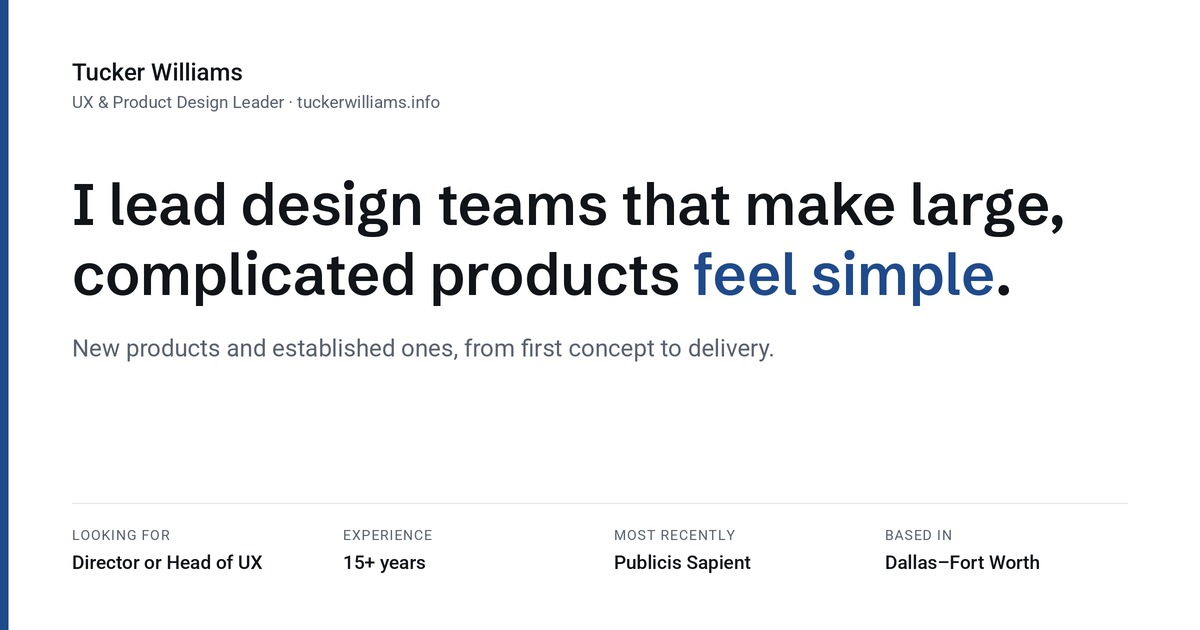
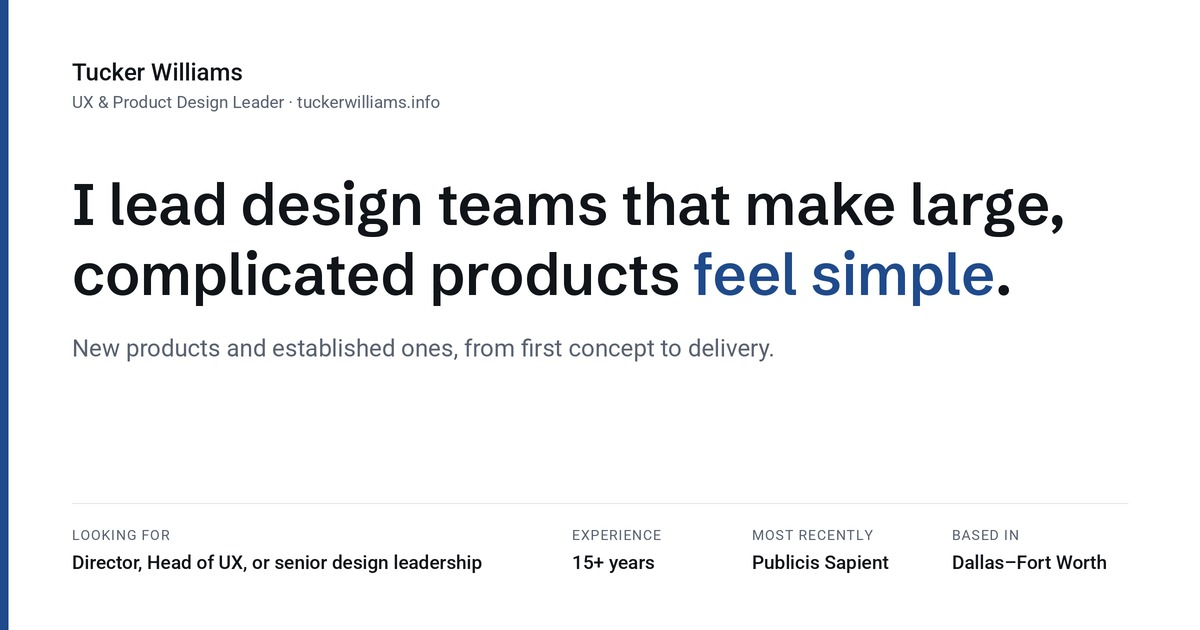
Update social image with the broader role list

Changed region(s): [[0.4625, 0.8444, 0.925, 0.9048], [0.1233, 0.8444, 0.4008, 0.9048]]

diff --git a/index.html b/index.html
@@ -11,7 +11,7 @@
 <meta property="og:title" content="Tucker Williams · UX &amp; Product Design Leader">
 <meta property="og:description" content="I lead design teams that make large, complicated products feel simple, new and established, most recently for 62 Pennsylvania agency sites and Grupo Coppel’s design practice.">
 <meta property="og:url" content="https://tuckerwilliams.info/">
-<meta property="og:image" content="https://tuckerwilliams.info/assets/img/og.jpg?v=5">
+<meta property="og:image" content="https://tuckerwilliams.info/assets/img/og.jpg?v=6">
 <meta property="og:image:width" content="1200">
 <meta property="og:image:height" content="630">
 <meta property="og:image:alt" content="Tucker Williams, UX and Product Design Leader: I lead design teams that make large, complicated products feel simple.">

diff --git a/work/visualization-tool/index.html b/work/visualization-tool/index.html
@@ -11,7 +11,7 @@
 <meta property="og:title" content="Visualization tool case study · Tucker Williams">
 <meta property="og:description" content="A tool for contractors to show homeowners real roofing and siding on their house, then turn the choice into an order. A case study by Tucker Williams.">
 <meta property="og:url" content="https://tuckerwilliams.info/work/visualization-tool/">
-<meta property="og:image" content="https://tuckerwilliams.info/assets/img/og.jpg?v=5">
+<meta property="og:image" content="https://tuckerwilliams.info/assets/img/og.jpg?v=6">
 <meta property="og:image:width" content="1200">
 <meta property="og:image:height" content="630">
 <meta property="og:image:alt" content="Tucker Williams, UX and Product Design Leader: I lead design teams that make large, complicated products feel simple.">

diff --git a/work/handango/index.html b/work/handango/index.html
@@ -11,7 +11,7 @@
 <meta property="og:title" content="Handango case study · Tucker Williams">
 <meta property="og:description" content="First employee at a mobile software marketplace, working across product, brand, packaging and strategy. A case study by Tucker Williams, UX and Product Design Leader.">
 <meta property="og:url" content="https://tuckerwilliams.info/work/handango/">
-<meta property="og:image" content="https://tuckerwilliams.info/assets/img/og.jpg?v=5">
+<meta property="og:image" content="https://tuckerwilliams.info/assets/img/og.jpg?v=6">
 <meta property="og:image:width" content="1200">
 <meta property="og:image:height" content="630">
 <meta property="og:image:alt" content="Tucker Williams, UX and Product Design Leader: I lead design teams that make large, complicated products feel simple.">

diff --git a/work/pa-gov/index.html b/work/pa-gov/index.html
@@ -11,7 +11,7 @@
 <meta property="og:title" content="PA.gov case study · Tucker Williams">
 <meta property="og:description" content="How 62 Pennsylvania state sites came to share one structure and one search. A case study by Tucker Williams, UX and Product Design Leader.">
 <meta property="og:url" content="https://tuckerwilliams.info/work/pa-gov/">
-<meta property="og:image" content="https://tuckerwilliams.info/assets/img/og.jpg?v=5">
+<meta property="og:image" content="https://tuckerwilliams.info/assets/img/og.jpg?v=6">
 <meta property="og:image:width" content="1200">
 <meta property="og:image:height" content="630">
 <meta property="og:image:alt" content="Tucker Williams, UX and Product Design Leader: I lead design teams that make large, complicated products feel simple.">

diff --git a/work/coppel/index.html b/work/coppel/index.html
@@ -11,7 +11,7 @@
 <meta property="og:title" content="Grupo Coppel case study · Tucker Williams">
 <meta property="og:description" content="How a 35-person design organization raised its bar. A case study by Tucker Williams, UX and Product Design Leader.">
 <meta property="og:url" content="https://tuckerwilliams.info/work/coppel/">
-<meta property="og:image" content="https://tuckerwilliams.info/assets/img/og.jpg?v=5">
+<meta property="og:image" content="https://tuckerwilliams.info/assets/img/og.jpg?v=6">
 <meta property="og:image:width" content="1200">
 <meta property="og:image:height" content="630">
 <meta property="og:image:alt" content="Tucker Williams, UX and Product Design Leader: I lead design teams that make large, complicated products feel simple.">

diff --git a/tools/og/build_og.py b/tools/og/build_og.py
@@ -42,10 +42,11 @@ d.text((M * S, y + 96 * S), 'New products and established ones, from first conce
 
 d.rectangle([M * S, 503 * S, (W - M) * S, 504 * S - 1], fill=LINE)
 lf, vf = font('body', 14, 400), font('body', 19, 500)
-facts = [('Looking for', 'Director or Head of UX'), ('Experience', '15+ years'),
-         ('Most recently', 'Publicis Sapient'), ('Based in', 'Dallas–Fort Worth')]
-for i, (k, v) in enumerate(facts):
-    cx = (M + i * 271) * S
+# Column x offsets from the left margin; "Looking for" gets extra room for the longer role list.
+facts = [(0, 'Looking for', 'Director, Head of UX, or senior design leadership'), (500, 'Experience', '15+ years'),
+         (680, 'Most recently', 'Publicis Sapient'), (880, 'Based in', 'Dallas–Fort Worth')]
+for off, k, v in facts:
+    cx = (M + off) * S
     lx = cx
     for ch in k.upper():  # light letter-spacing on the labels
         d.text((lx, 527 * S), ch, font=lf, fill=MUTED); lx += d.textlength(ch, font=lf) + 0.9 * S
